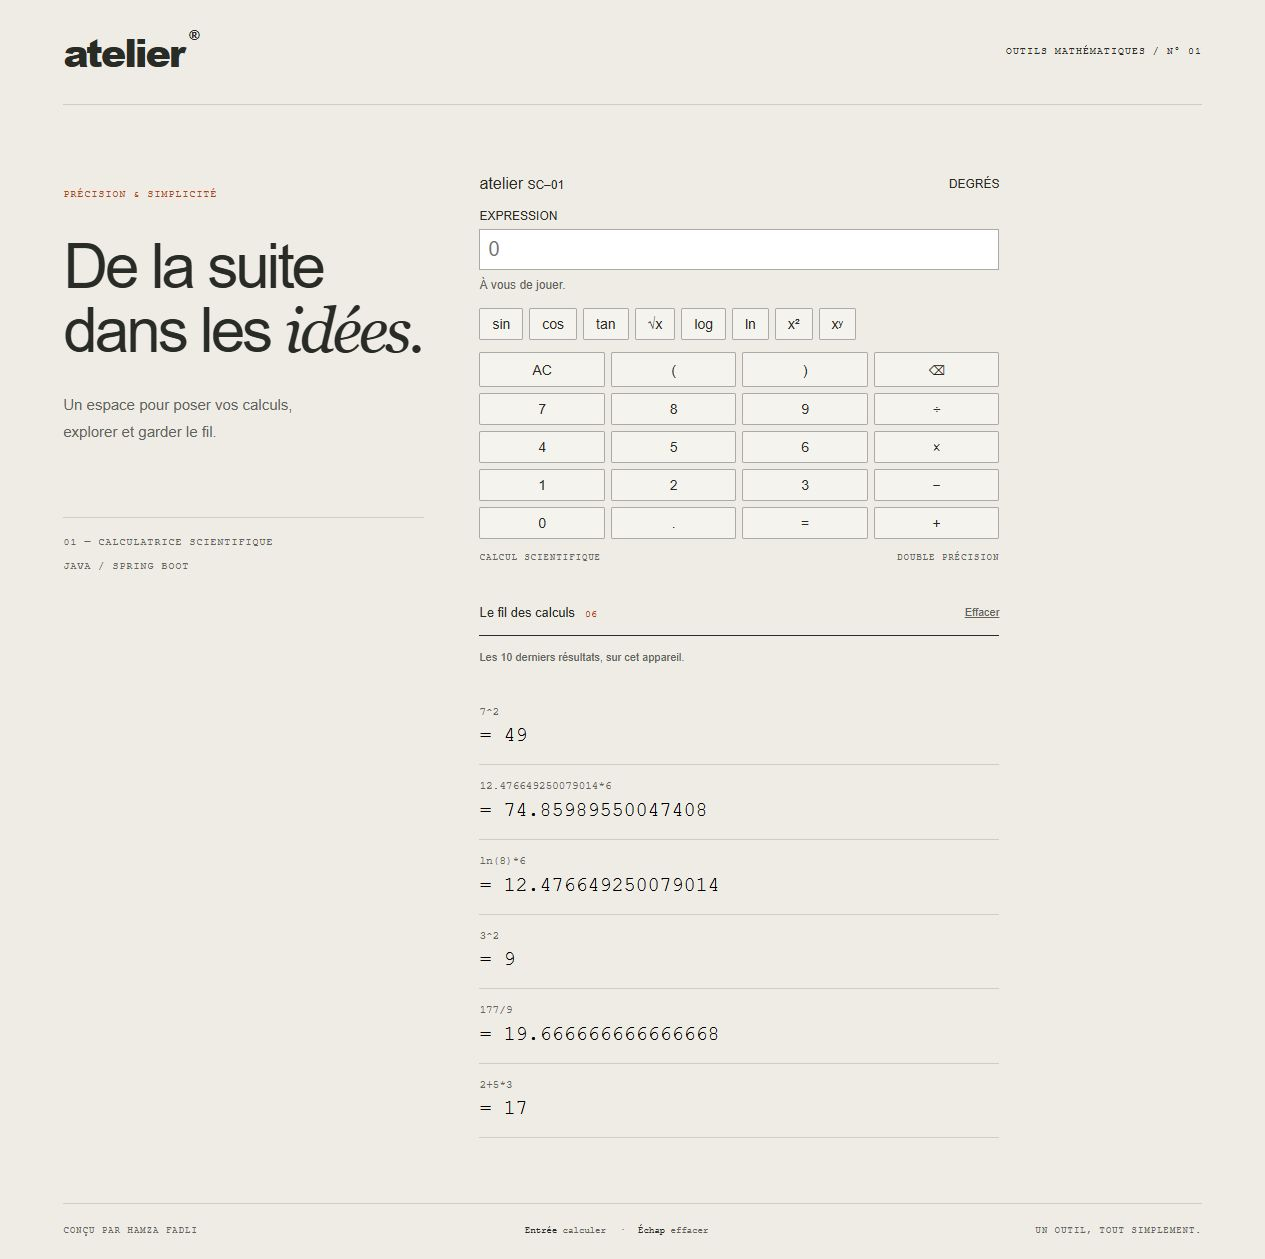
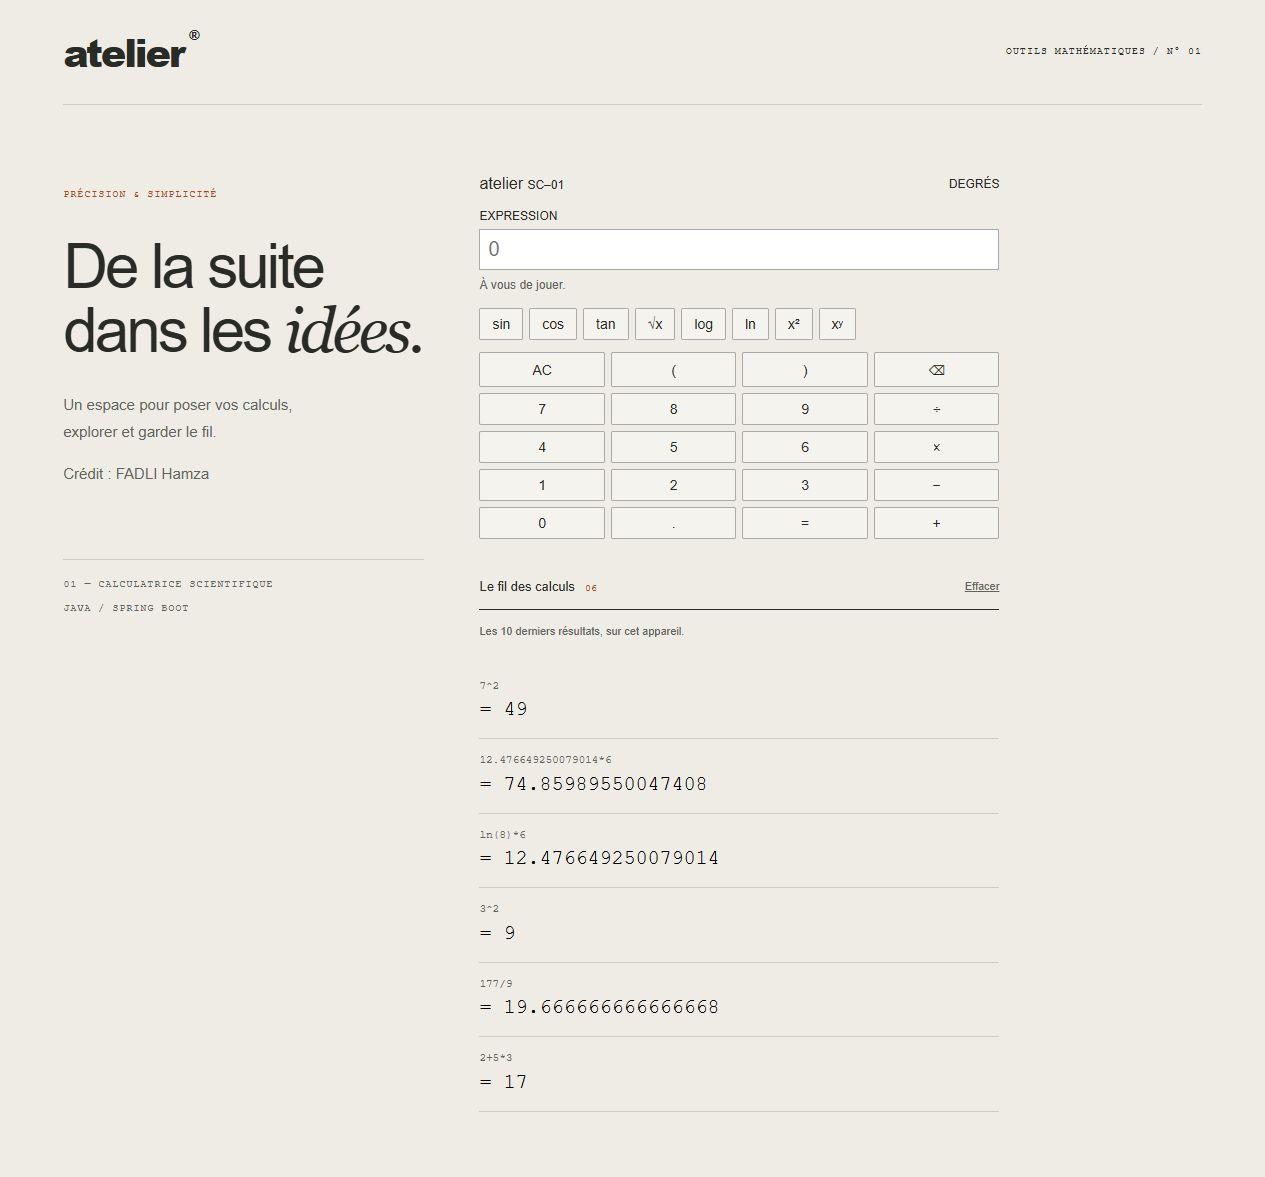
Retire le footer et ajoute le crédit FADLI Hamza

diff --git a/src/main/resources/static/index.html b/src/main/resources/static/index.html
@@ -11,7 +11,7 @@
 <body>
     <header class="masthead"><a href="./" class="wordmark">atelier<span>®</span></a><span class="edition">OUTILS MATHÉMATIQUES / N° 01</span></header>
     <main>
-        <section class="introduction"><p class="eyebrow">PRÉCISION & SIMPLICITÉ</p><h1>De la suite<br>dans les <em>idées.</em></h1><p>Un espace pour poser vos calculs,<br>explorer et garder le fil.</p><div class="index"><span>01 — CALCULATRICE SCIENTIFIQUE</span><span>JAVA / SPRING BOOT</span></div></section>
+        <section class="introduction"><p class="eyebrow">PRÉCISION & SIMPLICITÉ</p><h1>De la suite<br>dans les <em>idées.</em></h1><p>Un espace pour poser vos calculs,<br>explorer et garder le fil.</p><p class="credit">Crédit : FADLI Hamza</p><div class="index"><span>01 — CALCULATRICE SCIENTIFIQUE</span><span>JAVA / SPRING BOOT</span></div></section>
         <section class="workspace" aria-label="Espace de calcul">
             <div class="calculator">
                 <div class="device-header"><h2>atelier <span>SC–01</span></h2><span class="indicator">DEGRÉS</span></div>
@@ -27,11 +27,9 @@
                     <button data-value="1" class="number">1</button><button data-value="2" class="number">2</button><button data-value="3" class="number">3</button><button data-value="-" class="operator" aria-label="Soustraire">−</button>
                     <button data-value="0" class="number">0</button><button data-value="." class="number" aria-label="Point décimal">.</button><button data-action="calculate" class="equals" aria-label="Calculer">=</button><button data-value="+" class="operator" aria-label="Additionner">+</button>
                 </div>
-                <p class="device-footer">CALCUL SCIENTIFIQUE <span>DOUBLE PRÉCISION</span></p>
             </div>
             <aside class="notebook" aria-labelledby="history-title"><div class="notebook-header"><h2 id="history-title">Le fil des calculs<span id="history-count">00</span></h2><button id="clear-history" class="text-button">Effacer</button></div><p class="notebook-note">Les 10 derniers résultats, sur cet appareil.</p><div id="history"><p class="empty-history">Chaque idée commence<br>par un premier calcul.<span>Vos résultats apparaîtront ici.</span></p></div></aside>
         </section>
     </main>
-    <footer class="page-footer"><span>CONÇU PAR HAMZA FADLI</span><p><kbd>Entrée</kbd> calculer <span>·</span> <kbd>Échap</kbd> effacer</p><span>UN OUTIL, TOUT SIMPLEMENT.</span></footer>
 </body>
 </html>

diff --git a/src/main/resources/static/style.css b/src/main/resources/static/style.css
@@ -45,7 +45,7 @@ a{
     margin-left:5px;
     letter-spacing:0
 }
-.edition,.eyebrow,.index,.device-footer,.page-footer{
+.edition,.eyebrow,.index{
     font:10px/1.6 'Courier New',monospace;
     letter-spacing:1px
 }
@@ -156,13 +156,6 @@ button:focus-visible,input:focus-visible,a:focus-visible{
 button:disabled{
     opacity:.6
 }
-.device-footer{
-    display:flex;
-    justify-content:space-between;
-    margin-top:12px;
-    color:var(--muted);
-    font-size:9px
-}
 .notebook{
     padding-top:7px
 }
@@ -232,27 +225,6 @@ button:disabled{
 .history-item:hover strong{
     color:var(--orange)
 }
-.page-footer{
-    border-top:1px solid var(--line);
-    margin:0 5%;
-    padding:20px 0;
-    display:flex;
-    justify-content:space-between;
-    gap:20px;
-    color:var(--muted);
-    font-size:9px
-}
-.page-footer p{
-    margin:0;
-    letter-spacing:0
-}
-.page-footer p span{
-    padding:0 8px
-}
-kbd{
-    font:inherit;
-    color:var(--ink)
-}
 @media(min-width:1500px){
     main{
         padding-top:100px;
@@ -315,11 +287,8 @@ kbd{
         width:100%;
         margin:auto
     }
-    .page-footer{
-        flex-wrap:wrap;
-        gap:10px
-    }
-    .page-footer>span:last-child{
-        display:none
-    }
+}
+.introduction .credit{
+    font-size:12px;
+    color:var(--muted)
 }
